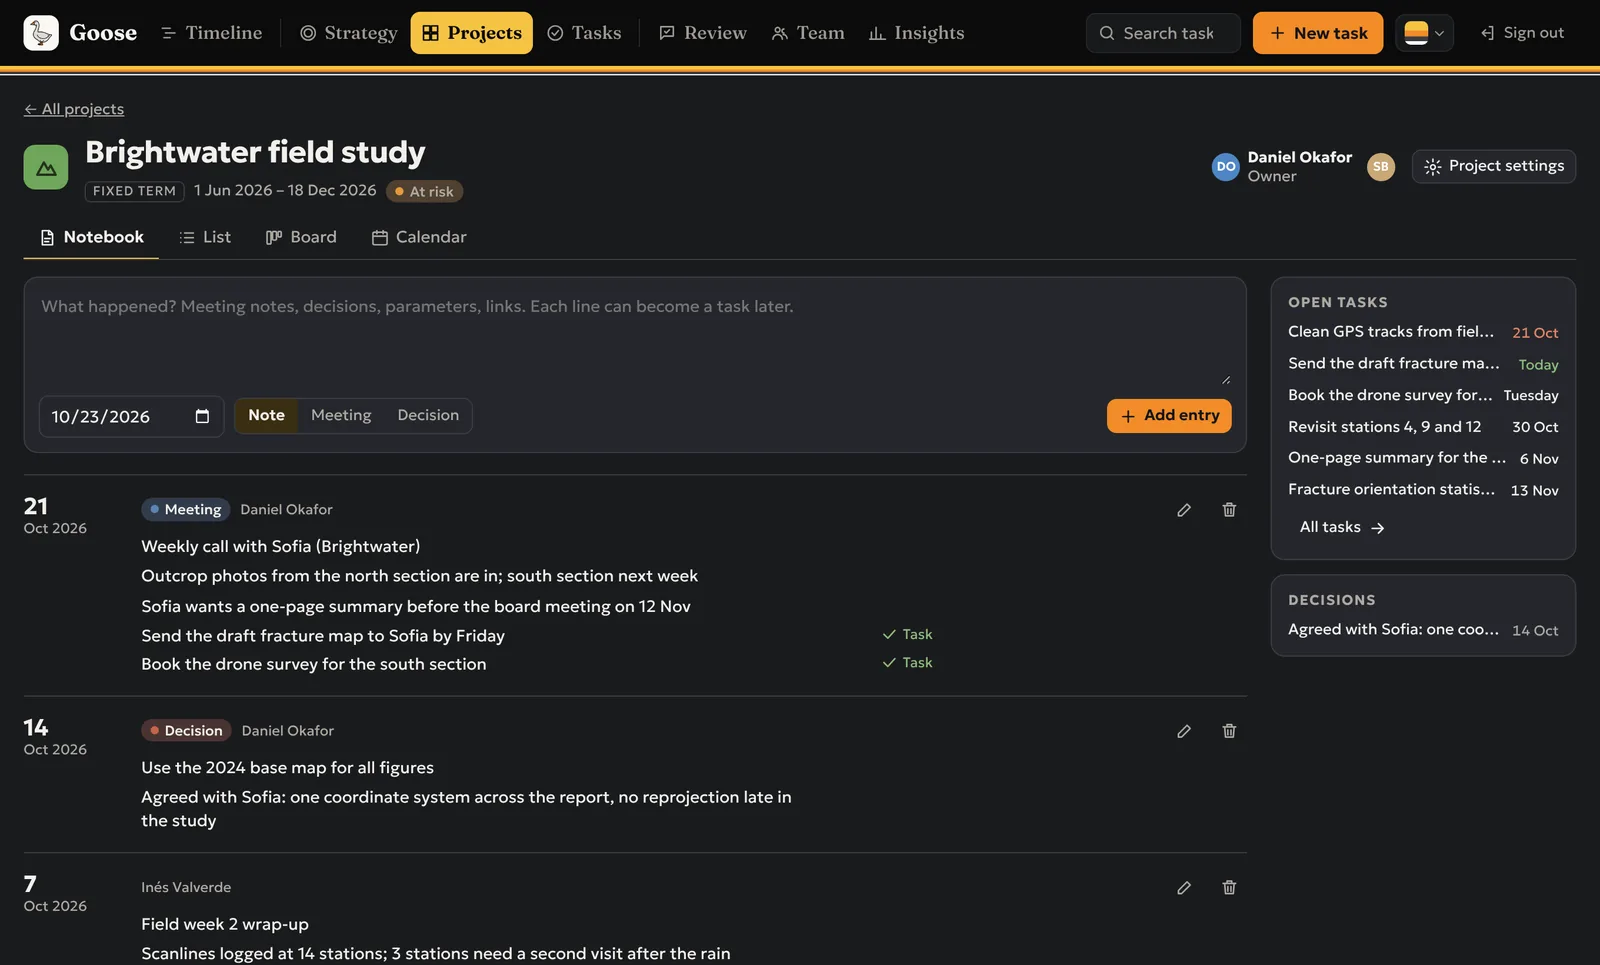
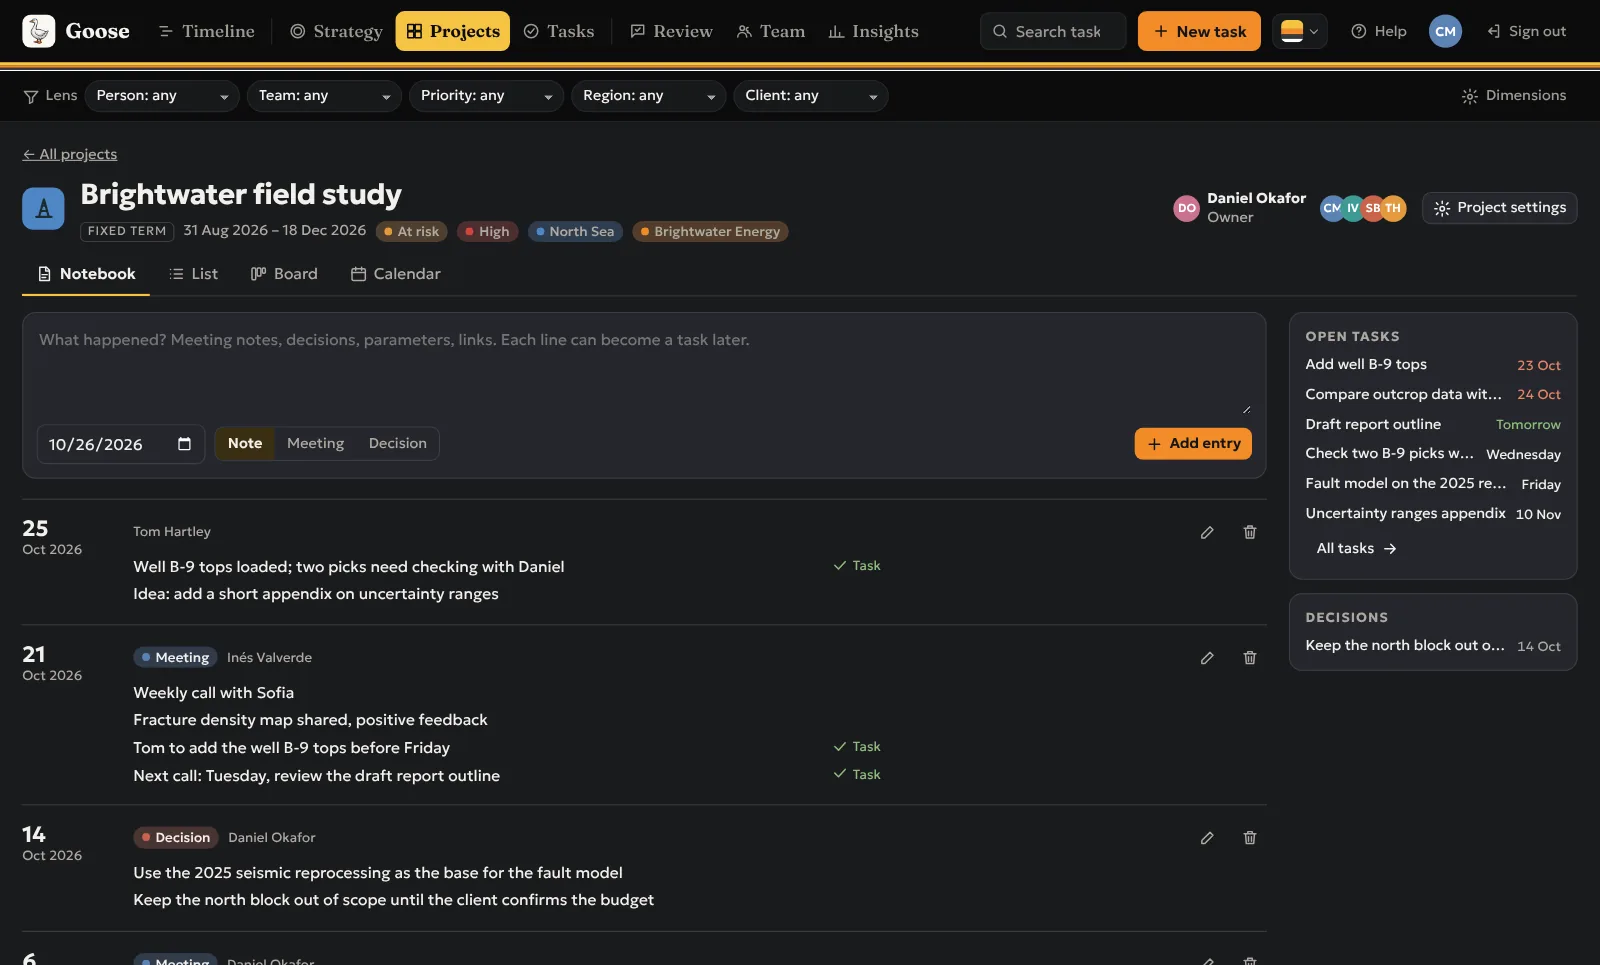
Website: V formation centred, new screenshots of the current app (Lens bar, Help, profile pictures, Dimensions), Features in the order Timeline, Strategy, Projects, Tasks, Review, Team, Insights, refreshed In the works, simpler Why Goose quote
Claude-Session: https://claude.ai/code/session_01Dr5L1ibi2WVGrhF4oNkt7F

diff --git a/website/index.html b/website/index.html
@@ -151,7 +151,7 @@ p{margin:0}
 .flight .eyebrow{color:var(--yolk)}
 .flight-intro{display:flex;flex-direction:column;gap:16px}
 .flight-intro p{color:var(--ink-muted);max-width:46ch}
-.vee{width:100%;max-width:420px;height:auto;margin:auto auto 0;padding-top:24px}
+.vee{width:100%;max-width:420px;height:auto;margin:auto;padding-block:24px}
 .vee .bird{fill:var(--ink-soft)}
 .vee .lead{fill:var(--yolk)}
 .vee .air{stroke:var(--ink-faint);stroke-width:1.4;fill:none;stroke-dasharray:3 5}
@@ -193,22 +193,6 @@ p{margin:0}
 .switch{display:inline-flex;gap:2px;padding:3px;border-radius:10px;background:var(--feather);justify-self:start}
 .switch button{font:inherit;font-size:14px;border:0;background:none;color:var(--muted);padding:6px 12px;border-radius:8px;cursor:pointer}
 .switch button[aria-pressed="true"]{background:var(--surface);color:var(--fg);font-weight:550;box-shadow:0 1px 2px rgb(0 0 0 / .12)}
-/* dimensions illustration (drawn in HTML, no screenshot) */
-.dimfig{cursor:default}
-.dim-lens{display:flex;flex-wrap:wrap;gap:8px;align-items:center;padding:12px 16px;border-bottom:1px solid var(--line);font-size:13px;color:var(--muted)}
-.dim-lens .sel{border:1px solid var(--feather-2);border-radius:8px;padding:4px 10px;background:var(--surface);color:var(--fg)}
-.dim-lens .sel b{font-weight:600}
-.dim-lens .lbl{font-weight:600;letter-spacing:.08em;text-transform:uppercase;font-size:11.5px;color:var(--faint);margin-right:2px}
-.dimtab{width:100%;min-width:0;font-size:14px;border-collapse:collapse}
-.dimtab th,.dimtab td{padding:11px 16px;border-top:1px solid var(--line);vertical-align:middle}
-.dimtab thead th{border-top:0;font-size:11.5px;background:none;padding-block:10px 8px}
-.dimtab td:first-child{font-weight:450;white-space:normal}
-.dimtab .grp td{background:var(--feather);font-weight:600;font-size:13px;padding-block:7px}
-.pill{display:inline-flex;align-items:center;gap:6px;font-size:12.5px;padding:2px 9px;border-radius:999px;white-space:nowrap;background:color-mix(in srgb,var(--c) 18%,transparent);border:1px solid color-mix(in srgb,var(--c) 45%,transparent)}
-.pill::before{content:"";width:7px;height:7px;border-radius:50%;background:var(--c)}
-.pill.inh{background:none;border-style:dashed;color:var(--muted)}
-.dimkey{display:flex;gap:16px;flex-wrap:wrap;padding:10px 16px 14px;border-top:1px solid var(--line);font-size:12.5px;color:var(--muted)}
-@media (max-width:560px){.dimtab .opt{display:none}}
 .soon{margin-top:24px;padding:28px;border-radius:16px;background:var(--yolk-soft);display:grid;gap:10px}
 .soon h3{font-size:22px}
 .soon ul{margin:0;padding-left:20px;color:var(--fg);display:grid;gap:4px;font-size:15px}
@@ -392,8 +376,8 @@ dialog.zoom button{font:inherit;font-size:14px;border:0;border-radius:9px;paddin
       <p class="lede">These screens come from a demo workspace for an invented consultancy, Alder Ridge Consulting. The people, clients and projects are made up.</p>
     </div>
     <nav class="subnav" aria-label="Features">
-      <a class="chip" href="#f-timeline">Timeline</a><a class="chip" href="#f-tasks">Tasks</a><a class="chip" href="#f-projects">Projects and notebooks</a>
-      <a class="chip" href="#f-strategy">Strategy</a><a class="chip" href="#f-team">Team</a><a class="chip" href="#f-review">Review</a><a class="chip" href="#f-insights">Insights</a><a class="chip" href="#f-dimensions">Dimensions and the Lens</a>
+      <a class="chip" href="#f-timeline">Timeline</a><a class="chip" href="#f-strategy">Strategy</a><a class="chip" href="#f-projects">Projects and notebooks</a><a class="chip" href="#f-tasks">Tasks</a>
+      <a class="chip" href="#f-review">Review</a><a class="chip" href="#f-team">Team</a><a class="chip" href="#f-insights">Insights</a><a class="chip" href="#f-dimensions">Dimensions and the Lens</a>
     </nav>
 
     <article class="feature" id="f-timeline">
@@ -410,25 +394,18 @@ dialog.zoom button{font:inherit;font-size:14px;border:0;border-radius:9px;paddin
         <picture><source srcset="img/app/timeline-dark.webp" media="(prefers-color-scheme: dark)"><img src="img/app/timeline.webp" alt="Timeline with goal bands and project lanes" width="1600" height="965" loading="lazy"></picture></button></figure>
     </article>
 
-    <article class="feature" id="f-tasks">
+    <article class="feature" id="f-strategy">
       <div class="feature-text">
-        <span class="eyebrow">Tasks</span><h3>List, board or calendar</h3>
-        <p class="what">The same tasks in the view that suits the moment.</p>
+        <span class="eyebrow">Strategy</span><h3>Goals that measure themselves</h3>
+        <p class="what">Set goals and sub-goals with an owner and a time span, and link the projects that serve them.</p>
         <ul class="ticks">
-          <li>List grouped by due date (overdue, today, next 7 days) or by project</li>
-          <li>Board: drag between To do, In progress and Done</li>
-          <li>Calendar: drag a task to another day to move it</li>
-          <li>Task panel with assignee, collaborators, subtasks, goal and time spent</li>
+          <li>Progress comes from linked projects, tasks and sub-goals, or a value you set</li>
+          <li>On track, at risk or off track at a glance, for goals and sub-goals</li>
+          <li>See who is involved in each goal</li>
         </ul>
-        <div class="switch" role="group" aria-label="Task view">
-          <button type="button" aria-pressed="true" data-shot="tasks-list">List</button>
-          <button type="button" aria-pressed="false" data-shot="tasks-board">Board</button>
-          <button type="button" aria-pressed="false" data-shot="tasks-calendar">Calendar</button>
-          <button type="button" aria-pressed="false" data-shot="task-panel">Task panel</button>
-        </div>
       </div>
       <figure class="shot"><button class="frame" type="button" data-zoom aria-label="Enlarge"><span class="chrome" aria-hidden="true"><i></i><i></i><i></i></span>
-        <picture id="tasks-pic"><source srcset="img/app/tasks-list-dark.webp" media="(prefers-color-scheme: dark)"><img src="img/app/tasks-list.webp" alt="Tasks list grouped by due date" width="1600" height="965" loading="lazy"></picture></button></figure>
+        <picture><source srcset="img/app/strategy-dark.webp" media="(prefers-color-scheme: dark)"><img src="img/app/strategy.webp" alt="Strategy page with a goal, its progress and sub-goals" width="1600" height="965" loading="lazy"></picture></button></figure>
     </article>
 
     <article class="feature" id="f-projects">
@@ -449,18 +426,39 @@ dialog.zoom button{font:inherit;font-size:14px;border:0;border-radius:9px;paddin
         <picture><source srcset="img/app/project-notebook-dark.webp" media="(prefers-color-scheme: dark)"><img src="img/app/project-notebook.webp" alt="Project notebook with meeting notes, decisions and open tasks" width="1600" height="965" loading="lazy"></picture></button></figure>
     </article>
 
-    <article class="feature" id="f-strategy">
+    <article class="feature" id="f-tasks">
       <div class="feature-text">
-        <span class="eyebrow">Strategy</span><h3>Goals that measure themselves</h3>
-        <p class="what">Set goals and sub-goals with an owner and a time span, and link the projects that serve them.</p>
+        <span class="eyebrow">Tasks</span><h3>List, board or calendar</h3>
+        <p class="what">The same tasks in the view that suits the moment.</p>
         <ul class="ticks">
-          <li>Progress comes from linked projects, tasks and sub-goals, or a value you set</li>
-          <li>On track, at risk or off track at a glance, for goals and sub-goals</li>
-          <li>See who is involved in each goal</li>
+          <li>List grouped by due date, by project or by any dimension</li>
+          <li>Board: drag between To do, In progress and Done</li>
+          <li>Calendar: drop a task on another day to move it, or copy it there</li>
+          <li>Task panel with assignee, collaborators, subtasks, goal and time spent</li>
+        </ul>
+        <div class="switch" role="group" aria-label="Task view">
+          <button type="button" aria-pressed="true" data-shot="tasks-list">List</button>
+          <button type="button" aria-pressed="false" data-shot="tasks-board">Board</button>
+          <button type="button" aria-pressed="false" data-shot="tasks-calendar">Calendar</button>
+          <button type="button" aria-pressed="false" data-shot="task-panel">Task panel</button>
+        </div>
+      </div>
+      <figure class="shot"><button class="frame" type="button" data-zoom aria-label="Enlarge"><span class="chrome" aria-hidden="true"><i></i><i></i><i></i></span>
+        <picture id="tasks-pic"><source srcset="img/app/tasks-list-dark.webp" media="(prefers-color-scheme: dark)"><img src="img/app/tasks-list.webp" alt="Tasks list grouped by due date" width="1600" height="965" loading="lazy"></picture></button></figure>
+    </article>
+
+    <article class="feature" id="f-review">
+      <div class="feature-text">
+        <span class="eyebrow">Review</span><h3>The weekly look back, done in a minute</h3>
+        <p class="what">Pick a period and Goose lays out what slipped, what got done and what is coming up.</p>
+        <ul class="ticks">
+          <li>Slipped tasks with one-click fixes: done, next Monday, one week later</li>
+          <li>Where the time went, by goal and by project</li>
+          <li>A ready-made summary to copy into an email or chat</li>
         </ul>
       </div>
       <figure class="shot"><button class="frame" type="button" data-zoom aria-label="Enlarge"><span class="chrome" aria-hidden="true"><i></i><i></i><i></i></span>
-        <picture><source srcset="img/app/strategy-dark.webp" media="(prefers-color-scheme: dark)"><img src="img/app/strategy.webp" alt="Strategy page with a goal, its progress and sub-goals" width="1600" height="965" loading="lazy"></picture></button></figure>
+        <picture><source srcset="img/app/review-dark.webp" media="(prefers-color-scheme: dark)"><img src="img/app/review.webp" alt="Review page for the last 30 days" width="1600" height="965" loading="lazy"></picture></button></figure>
     </article>
 
     <article class="feature" id="f-team">
@@ -479,20 +477,6 @@ dialog.zoom button{font:inherit;font-size:14px;border:0;border-radius:9px;paddin
       </div>
       <figure class="shot"><button class="frame" type="button" data-zoom aria-label="Enlarge"><span class="chrome" aria-hidden="true"><i></i><i></i><i></i></span>
         <picture><source srcset="img/app/team-dark.webp" media="(prefers-color-scheme: dark)"><img src="img/app/team.webp" alt="Team page with a card for each person" width="1600" height="965" loading="lazy"></picture></button></figure>
-    </article>
-
-    <article class="feature" id="f-review">
-      <div class="feature-text">
-        <span class="eyebrow">Review</span><h3>The weekly look back, done in a minute</h3>
-        <p class="what">Pick a period and Goose lays out what slipped, what got done and what is coming up.</p>
-        <ul class="ticks">
-          <li>Slipped tasks with one-click fixes: done, next Monday, one week later</li>
-          <li>Where the time went, by goal and by project</li>
-          <li>A ready-made summary to copy into an email or chat</li>
-        </ul>
-      </div>
-      <figure class="shot"><button class="frame" type="button" data-zoom aria-label="Enlarge"><span class="chrome" aria-hidden="true"><i></i><i></i><i></i></span>
-        <picture><source srcset="img/app/review-dark.webp" media="(prefers-color-scheme: dark)"><img src="img/app/review.webp" alt="Review page for the last 30 days" width="1600" height="965" loading="lazy"></picture></button></figure>
     </article>
 
     <article class="feature" id="f-insights">
@@ -519,35 +503,21 @@ dialog.zoom button{font:inherit;font-size:14px;border:0;border-radius:9px;paddin
           <li>The Lens bar filters every screen by person, team, project or dimension</li>
         </ul>
       </div>
-      <figure class="shot">
-        <div class="frame dimfig" role="img" aria-label="Illustration: a task list grouped by region, with priority and client labels, and the Lens bar filtering by team">
-          <span class="chrome" aria-hidden="true"><i></i><i></i><i></i></span>
-          <div class="dim-lens" aria-hidden="true"><span class="lbl">Lens</span><span class="sel">Team: <b>Subsurface</b></span><span class="sel">Priority: <b>All</b></span><span class="sel">Region: <b>All</b></span></div>
-          <table class="dimtab" aria-hidden="true">
-            <thead><tr><th>Task</th><th>Priority</th><th class="opt">Client</th></tr></thead>
-            <tbody>
-              <tr class="grp"><td colspan="3">Region: North Sea</td></tr>
-              <tr><td>Update fault model with new well</td><td><span class="pill" style="--c:#E5484D">High</span></td><td class="opt"><span class="pill inh" style="--c:#3E8ED0">Nordvik Energy</span></td></tr>
-              <tr><td>Client workshop slides</td><td><span class="pill inh" style="--c:#F28C28">Medium</span></td><td class="opt"><span class="pill inh" style="--c:#3E8ED0">Nordvik Energy</span></td></tr>
-              <tr class="grp"><td colspan="3">Region: Middle East</td></tr>
-              <tr><td>Fracture density review</td><td><span class="pill" style="--c:#E5484D">High</span></td><td class="opt"><span class="pill" style="--c:#2BA37A">Desert Basin Co.</span></td></tr>
-              <tr><td>Write up core description notes</td><td><span class="pill" style="--c:#8F887C">Low</span></td><td class="opt"><span class="pill inh" style="--c:#2BA37A">Desert Basin Co.</span></td></tr>
-            </tbody>
-          </table>
-          <div class="dimkey" aria-hidden="true"><span><span class="pill" style="--c:#8F887C">Filled</span> set on the task</span><span><span class="pill inh" style="--c:#8F887C">Dashed</span> from its project</span></div>
-        </div>
-        <figcaption>An illustration of Dimensions in the task list: grouped by region, with labels set on the task or taken from the project.</figcaption>
-      </figure>
+      <figure class="shot"><button class="frame" type="button" data-zoom aria-label="Enlarge"><span class="chrome" aria-hidden="true"><i></i><i></i><i></i></span>
+        <picture><source srcset="img/app/dimensions-dark.webp" media="(prefers-color-scheme: dark)"><img src="img/app/dimensions.webp" alt="Task list grouped by region, with Priority, Region and Client labels and the Lens bar on top" width="1600" height="965" loading="lazy"></picture></button>
+        <figcaption>The task list grouped by Region. Filled labels are set on the task; dashed ones come from its project.</figcaption></figure>
     </article>
 
     <div class="soon">
       <span class="eyebrow">In the works</span>
       <h3>Next on the flight plan</h3>
       <ul>
-        <li>Extra project fields for text, numbers and dates</li>
-        <li>Totals of number fields in Insights</li>
+        <li>Extra project fields for text, numbers and dates, with totals in Insights</li>
         <li>A person's tasks and review, one click from their Team card</li>
         <li>Your colour palette and view choices following you to every device</li>
+        <li>Live updates when a colleague changes something</li>
+        <li>Import and export with Excel and CSV</li>
+        <li>Email notifications, for example when a task is assigned to you</li>
       </ul>
     </div>
   </div>
@@ -559,7 +529,7 @@ dialog.zoom button{font:inherit;font-size:14px;border:0;border-radius:9px;paddin
     <div class="why">
       <aside class="why-side">
         <div class="goose-stage"><img src="img/goose.webp" alt="The Goose mascot" width="640" height="857"></div>
-        <blockquote>Most task tools track tasks. Goose tracks where the tasks are taking you.</blockquote>
+        <blockquote>Other tools list your tasks. Goose shows where they are taking you.</blockquote>
       </aside>
       <div>
         <div class="panel-head">
@@ -667,7 +637,7 @@ dialog.zoom button{font:inherit;font-size:14px;border:0;border-radius:9px;paddin
     </div>
     <div class="faq">
       <details open><summary>Can I use Goose on my own?</summary>
-        <div><p>Yes. Everyone who is approved gets their own workspace, where they are the admin and can plan goals, projects and tasks alone. Invite people whenever you are ready.</p></div></details>
+        <div><p>Yes. Everyone who is approved gets their own workspace, where they are the admin and can plan goals, projects and tasks alone. While you work alone, solo mode hides everything about teams. Invite people whenever you are ready.</p></div></details>
       <details><summary>Can I be part of more than one workspace?</summary>
         <div><p>Yes. Your own workspace and every workspace you are invited to sit under one sign-in, and you switch between them. Your access level can differ in each.</p></div></details>
       <details><summary>Can my clients see their project?</summary>
